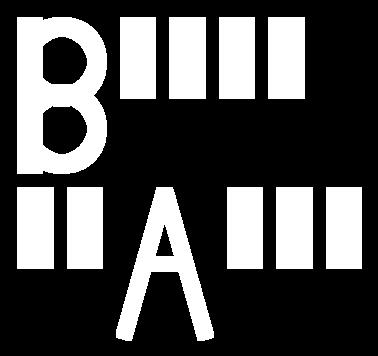
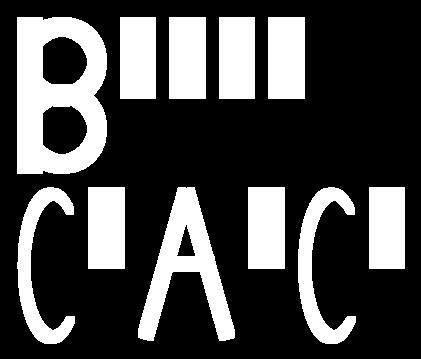
Lettre C termine

diff --git a/src/main/java/Letter/LetterFactory.java b/src/main/java/Letter/LetterFactory.java
@@ -7,15 +7,13 @@ public final class LetterFactory {
     final static Double maxHeight = 150.0;
     final static Double maxWidth = maxHeight / 2.5;
     final static Double halfMaxHeight = maxHeight / 2;
-
     final static Double circleRadius = maxHeight / 1.8;
-
+    final static Double ellipseToBeRemovedWidth = maxWidth / 1.15;    /*maxwidth diviser par 1.3 marche bien*/
+    final static Double ellipseToBeRemovedHeight = maxHeight / 1.1;  /*1.3 marche bien*/
     final static Double circleRadiusToBeRemoved = circleRadius / 1.45;
-
     final static Double halfMaxWidth = maxWidth / 2;
     final static Double stripeThickness = maxHeight / 8;
     final static Double halfStripeThickness = stripeThickness / 2;
-
     final static Double lessThanHalfMaxHeight = halfMaxHeight / 2;
 
     /**
@@ -76,8 +74,16 @@ public final class LetterFactory {
      * @return BaseShape containing the letter C
      */
     public static BaseShape create_C() {
-        Rectangle rectangle = new Rectangle(halfMaxWidth, halfMaxHeight);
-        BaseShape finalshape = new BaseShape(rectangle.cloneCoords());
+        Rectangle rectangle = new Rectangle(halfMaxWidth, maxHeight / 1.4);   /*maxHeight / 1.3*/
+        Ellipse ellipse = new Ellipse(maxWidth, maxHeight);
+        Ellipse ellipseToBeRemoved = new Ellipse(ellipseToBeRemovedWidth, ellipseToBeRemovedHeight);
+        Point2d translateVectorEllipseToBeRemoved = new Point2d(3.0, 0.0); /*10 comme x*/
+        Point2d translateVectorRectangleToBeRemoved = new Point2d(15.0, 0.0);
+        rectangle.translate(rectangle.getCoords(), translateVectorRectangleToBeRemoved);
+        ellipseToBeRemoved.translate(ellipseToBeRemoved.getCoords(), translateVectorEllipseToBeRemoved);
+        ellipse.remove(ellipseToBeRemoved);
+        ellipse.remove(rectangle);
+        BaseShape finalshape = new BaseShape(ellipse.cloneCoords());
         return finalshape;
     }
 
